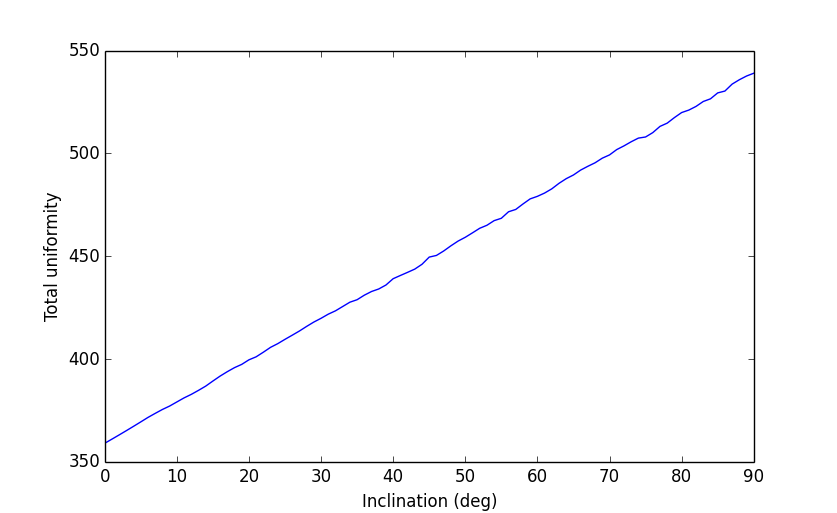
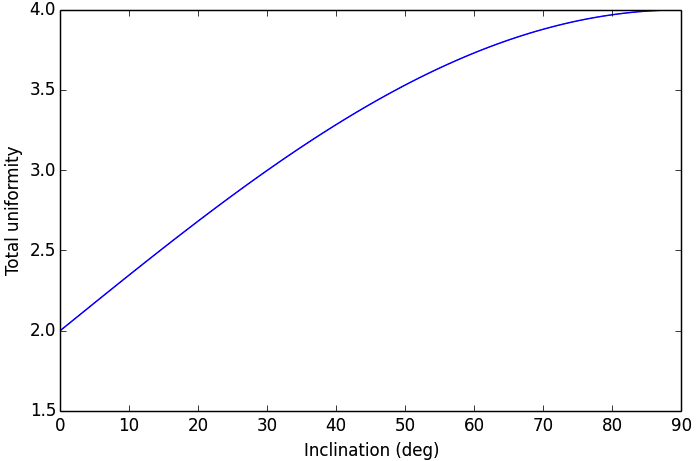
updated launch example problem

diff --git a/example_launch.py b/example_launch.py
@@ -24,7 +24,7 @@ class Uniformity(Component):
         """Computes the sine and max - min of the input array"""
 
         s = np.sin(self.sample * np.pi / 180.)
-        self.k = max(self.sample) - min(self.sample)
+        self.k = max(s) - min(s)
 
     def linearize(self):
         """Computes the Jacobian matrix"""
@@ -172,6 +172,7 @@ class CADRE_Launch(Assembly):
         # Orbit components
         self.add("Orbit_Initial", Orbit_Initial())
         self.driver.workflow.add("Orbit_Initial")
+        self.Orbit_Initial.Inc = 1
 
         self.add("Orbit_Dynamics", Orbit_Dynamics(n))
         self.driver.workflow.add("Orbit_Dynamics")
@@ -202,7 +203,7 @@ class CADRE_Launch(Assembly):
         self.connect("GroundLOC.lats", "Lat_uniform.sample")
         self.connect("GroundLOC.lons", "Lon_uniform.sample")
 
-        self.driver.add_objective("Lat_uniform.k + Lon_uniform.k")
+        self.driver.add_objective("-Lat_uniform.k -Lon_uniform.k")
         self.driver.add_parameter(
             ["Orbit_Initial.altPerigee", "Orbit_Initial.altApogee"],
             low=500, high=1000)
@@ -212,6 +213,7 @@ class CADRE_Launch(Assembly):
             "Orbit_Initial.Inc", low=0, high=90)
         self.driver.add_parameter(
             "Orbit_Initial.argPerigee", low=0, high=90)
+
 
 if __name__ == "__main__":
     import pylab
